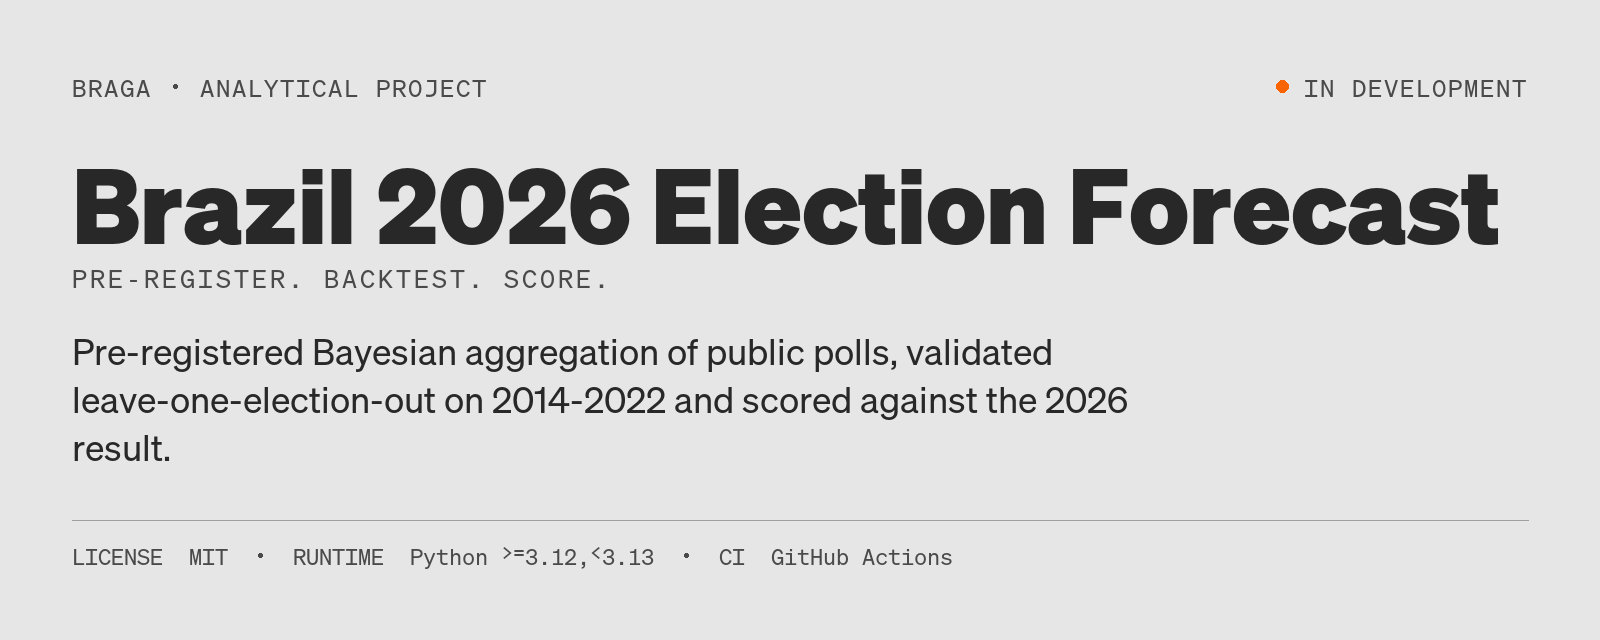
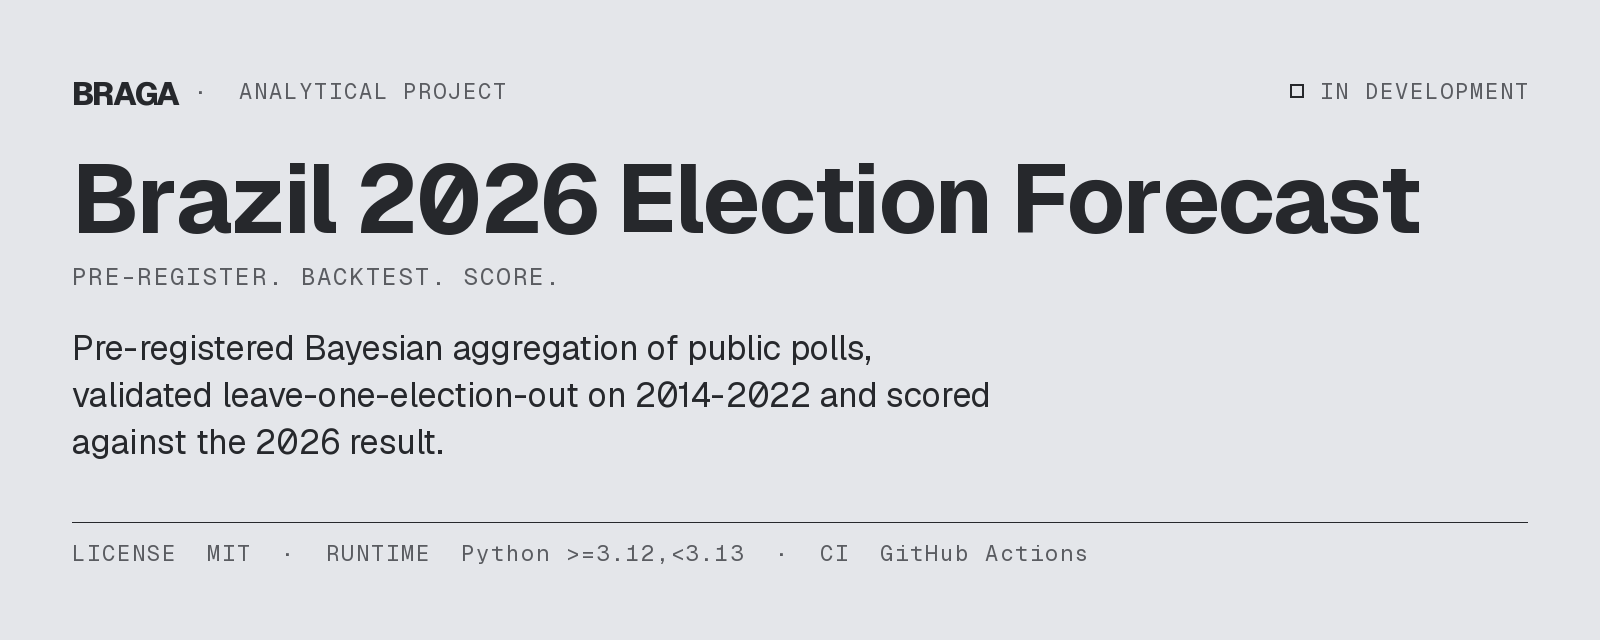
README on the Braga design system v2.1
Banner regenerated on design system v2.1 (D-051), shields badges in the
neutrals (D-054), Mermaid on the site's theme (D-052), by
braga-portfolio-docs `python -m readme_quality fix`.

Claude-Session: https://claude.ai/code/session_017JXfGqfFadubVauUqq2nZv

diff --git a/README.md b/README.md
@@ -3,9 +3,9 @@
 ![Project banner for the Brazil 2026 Election Forecast: title, tagline and repository status on the design-system surface. ILLUSTRATIVE.](docs/assets/hero.png)
 
 [![CI](https://github.com/RafaelBraga-Kribitz/brazil-2026-election-forecast/actions/workflows/ci.yml/badge.svg)](https://github.com/RafaelBraga-Kribitz/brazil-2026-election-forecast/actions/workflows/ci.yml)
-[![Python 3.12,<3.13](https://img.shields.io/badge/python-3.12,<3.13-blue)](pyproject.toml)
-[![License: MIT](https://img.shields.io/badge/license-MIT-green)](LICENSE)
-[![Status: In development](https://img.shields.io/badge/status-In%20development-blue)](#status)
+[![Python 3.12,<3.13](https://img.shields.io/badge/python-3.12,<3.13-5A5C61?labelColor=26282C)](pyproject.toml)
+[![License: MIT](https://img.shields.io/badge/license-MIT-5A5C61?labelColor=26282C)](LICENSE)
+[![Status: In development](https://img.shields.io/badge/status-In%20development-5A5C61?labelColor=26282C)](#status)
 
 
 **Status:** In development
@@ -164,13 +164,33 @@ The PollingData average and Polymarket prices are captured at the FINAL freeze a
 The pipeline has two stages. Stage 1 parses pinned poll tables into per-cutoff information sets and fits the random walks without ever reading results. Stage 2 evaluates them leave one election out against the official results. The same code then produces the 2026 first-round and conditional forecasts that are frozen and scored.
 
 ```mermaid
-%%{init: {"theme": "base", "fontFamily": "Söhne Mono, ui-monospace, SFMono-Regular, Menlo, monospace", "themeVariables": {
-  "background": "#E6E6E6", "primaryColor": "#E6E6E6", "primaryTextColor": "#282828",
-  "primaryBorderColor": "#A0A0A0", "lineColor": "#A0A0A0", "textColor": "#282828",
-  "mainBkg": "#E6E6E6", "nodeBorder": "#A0A0A0", "clusterBkg": "#E6E6E6",
-  "clusterBorder": "#A0A0A0", "edgeLabelBackground": "#E6E6E6", "titleColor": "#282828",
-  "fontFamily": "Söhne Mono, ui-monospace, SFMono-Regular, Menlo, monospace", "fontSize": "13px"
-}, "flowchart": {"curve": "linear", "htmlLabels": true, "padding": 8}}}%%
+%%{init: {
+  "theme": "base",
+  "fontFamily": "BKribitz, system-ui, -apple-system, Segoe UI, Helvetica, Arial, sans-serif",
+  "themeVariables": {
+    "background": "#E4E6EA",
+    "primaryColor": "#DCDEE2",
+    "primaryTextColor": "#26282C",
+    "primaryBorderColor": "#26282C",
+    "secondaryColor": "#E4E6EA",
+    "secondaryTextColor": "#26282C",
+    "secondaryBorderColor": "#5A5C61",
+    "tertiaryColor": "#E4E6EA",
+    "tertiaryTextColor": "#26282C",
+    "tertiaryBorderColor": "#C2C4CA",
+    "lineColor": "#5A5C61",
+    "textColor": "#26282C",
+    "mainBkg": "#DCDEE2",
+    "nodeBorder": "#26282C",
+    "clusterBkg": "#E4E6EA",
+    "clusterBorder": "#C2C4CA",
+    "edgeLabelBackground": "#E4E6EA",
+    "titleColor": "#26282C",
+    "fontFamily": "BKribitz, system-ui, -apple-system, Segoe UI, Helvetica, Arial, sans-serif",
+    "fontSize": "14px"
+  },
+  "flowchart": { "curve": "linear", "htmlLabels": true, "padding": 8 }
+}}%%
 flowchart TD
 
 subgraph group_sources["Sources"]
@@ -221,8 +241,8 @@ node_pres --> node_freeze
 node_backtest --> node_report
 node_pres --> node_report
 
-classDef node fill:#E6E6E6,stroke:#A0A0A0,stroke-width:1px,color:#282828
-classDef accent fill:#E6E6E6,stroke:#FA6400,stroke-width:1px,color:#282828
+classDef node fill:#DCDEE2,stroke:#26282C,stroke-width:1px,color:#26282C
+classDef accent fill:#DCDEE2,stroke:#2F4BE0,stroke-width:1px,color:#26282C
 
 class node_wiki,node_manual,node_tse,node_ingest,node_transform,node_model,node_h2h,node_day,node_score,node_backtest,node_r1,node_pres,node_freeze,node_report node
 class node_pres accent
